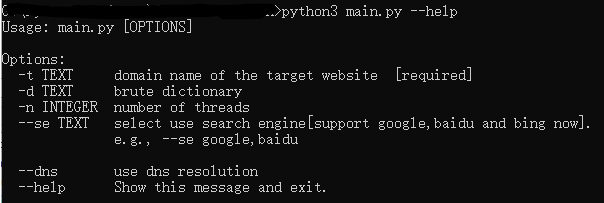
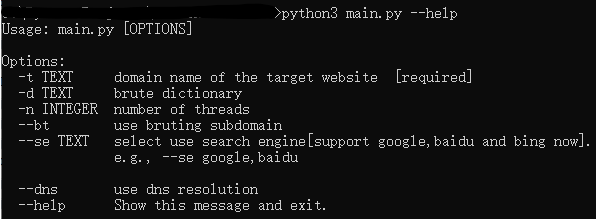
update version and usage

diff --git a/Gui/gui.py b/Gui/gui.py
@@ -144,7 +144,7 @@ class Ui_MainWindow(object):
 
     def retranslateUi(self, MainWindow):
         _translate = QtCore.QCoreApplication.translate
-        MainWindow.setWindowTitle(_translate("MainWindow", "Subdomain lookup V1.7"))
+        MainWindow.setWindowTitle(_translate("MainWindow", "Subdomain lookup V1.7.2"))
         self.label.setText(_translate("MainWindow", "站点"))
         self.label_3.setText(_translate("MainWindow", "字典"))
         self.comboBox.setPlaceholderText(_translate("MainWindow", "common.txt"))

diff --git a/Sdl/sdlcore.py b/Sdl/sdlcore.py
@@ -12,7 +12,7 @@ logo = r"""         _                 _             _
 / __|/ _` |/ _ \| '_ ` _ \| |/ _ \ / _ \| |/ / | | | '_ \ 
 \__ \ (_| | (_) | | | | | | | (_) | (_) |   <| |_| | |_) |
 |___/\__,_|\___/|_| |_| |_|_|\___/ \___/|_|\_\\__,_| .__/ 
-                                                   |_|      v1.7
+                                                   |_|      v1.7.2
 """
 known_subdomain = []
 headers = {

diff --git a/README.md b/README.md
@@ -1,4 +1,4 @@
-## Subdomain lookup V1.7
+## Subdomain lookup V1.7.2
 developing.......  
 The functions which are implemented:  
 Brute  
@@ -9,6 +9,7 @@ GUI(could select dictionary which you add by yourself)
 `-t domain name of the target website`  
 `-d brute dictionary[optional]`  
 `-n numbers of thread[optional]`  
+`--bt use bruting subdomain`  
 `--se select use search engine[support google,baidu and bing now].e.g., --se google,baidu`  
 `--dns use dns resolution`   
 ![Demonstration](./img/cmd1.png)  
